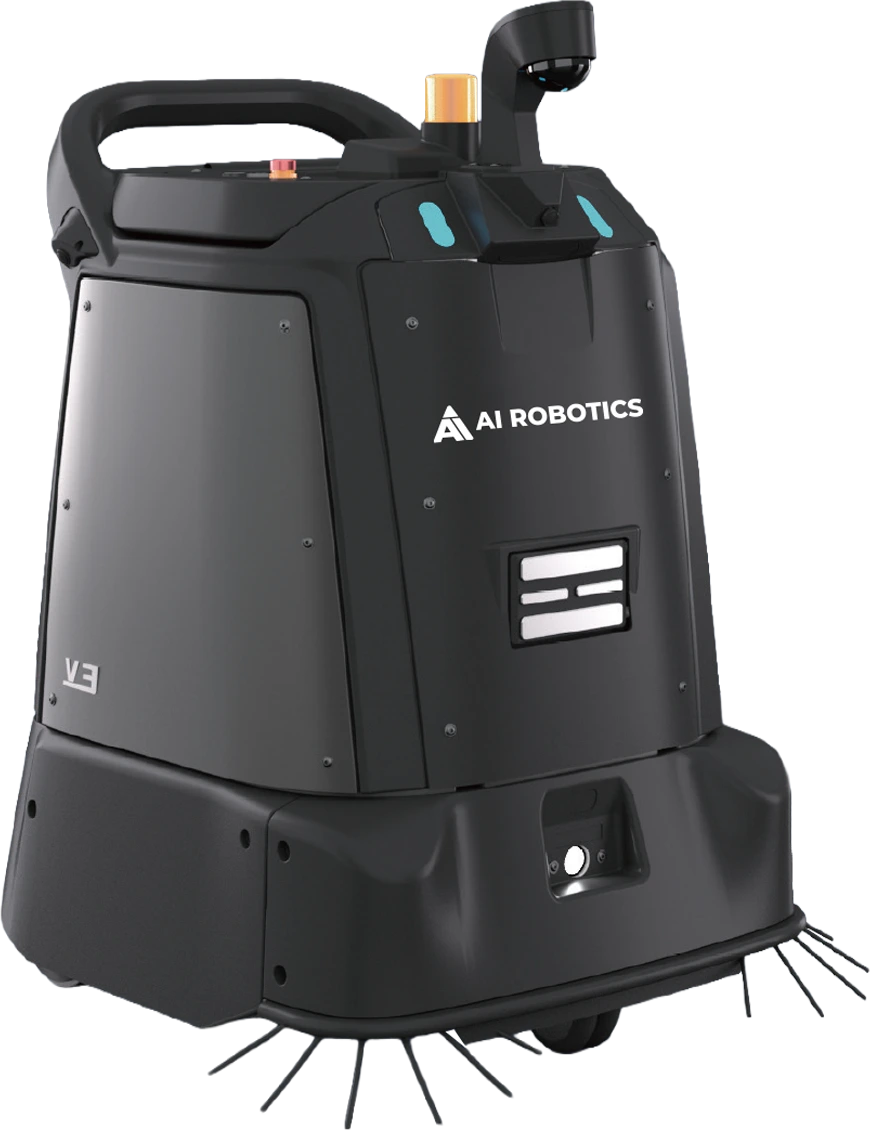
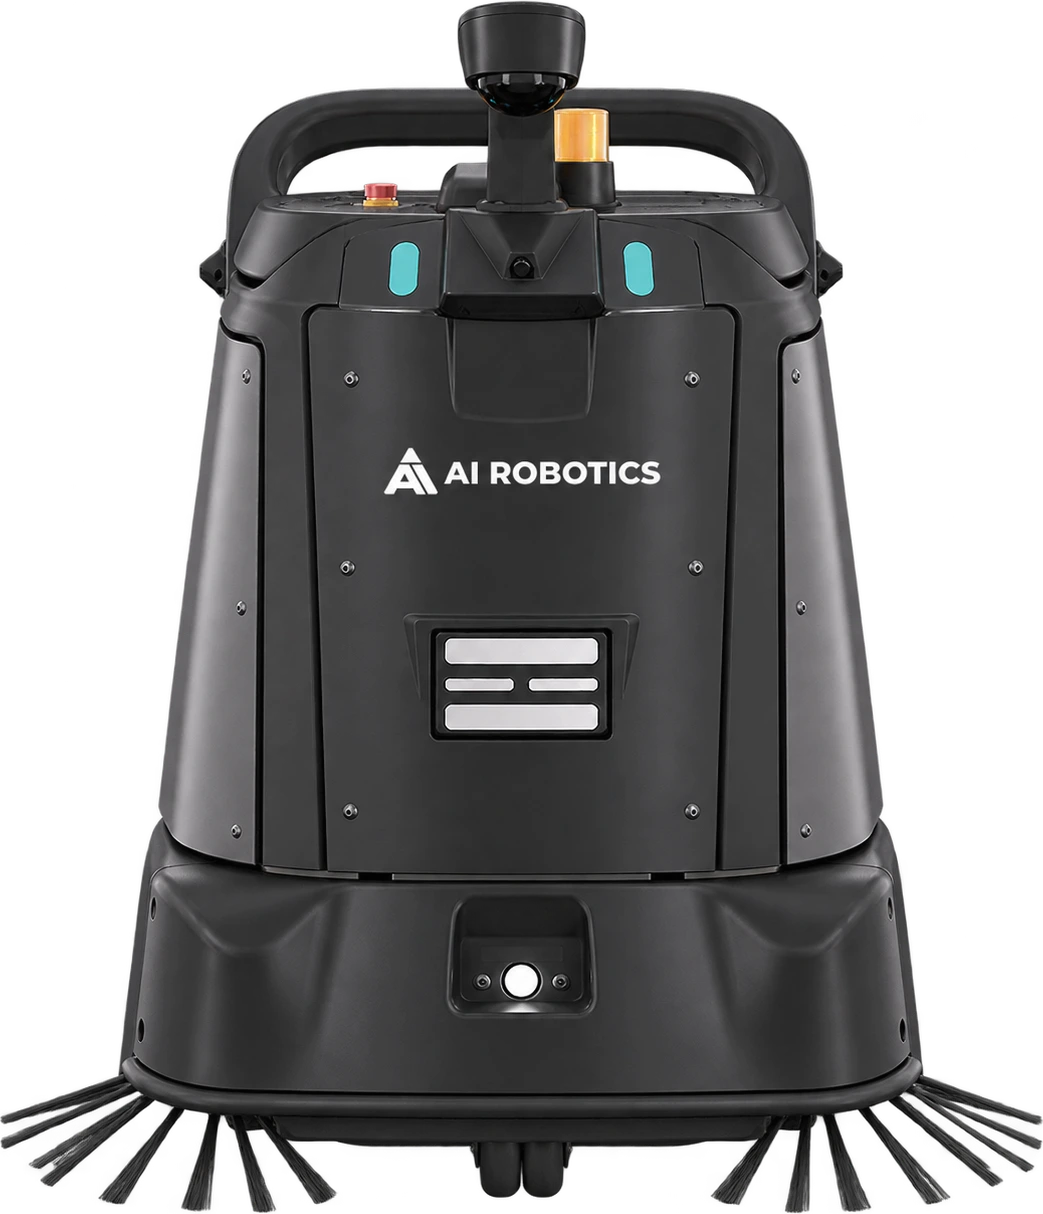
Use a front-facing V3 render in the home-page lineup and finder
The other five machines stand face-on in the fleet line; the V3's three-quarter render was the odd one out. The cutout is rebuilt from the new front render and the finder's beacon moves onto its amber light.

diff --git a/components/robot-spotlight.tsx b/components/robot-spotlight.tsx
@@ -26,7 +26,7 @@ const stage: Record<
   l50: { img: l50, beacon: { x: 50, y: 4 } },
   sp50: { img: sp50, beacon: { x: 50, y: 4 } },
   s5: { img: s5, beacon: { x: 30, y: 6 } },
-  v3: { img: v3, beacon: { x: 52, y: 7 } },
+  v3: { img: v3, beacon: { x: 54, y: 8 } },
 };
 
 /* Readouts sit at the edges of the stage, NOT tethered to parts of the machine.
